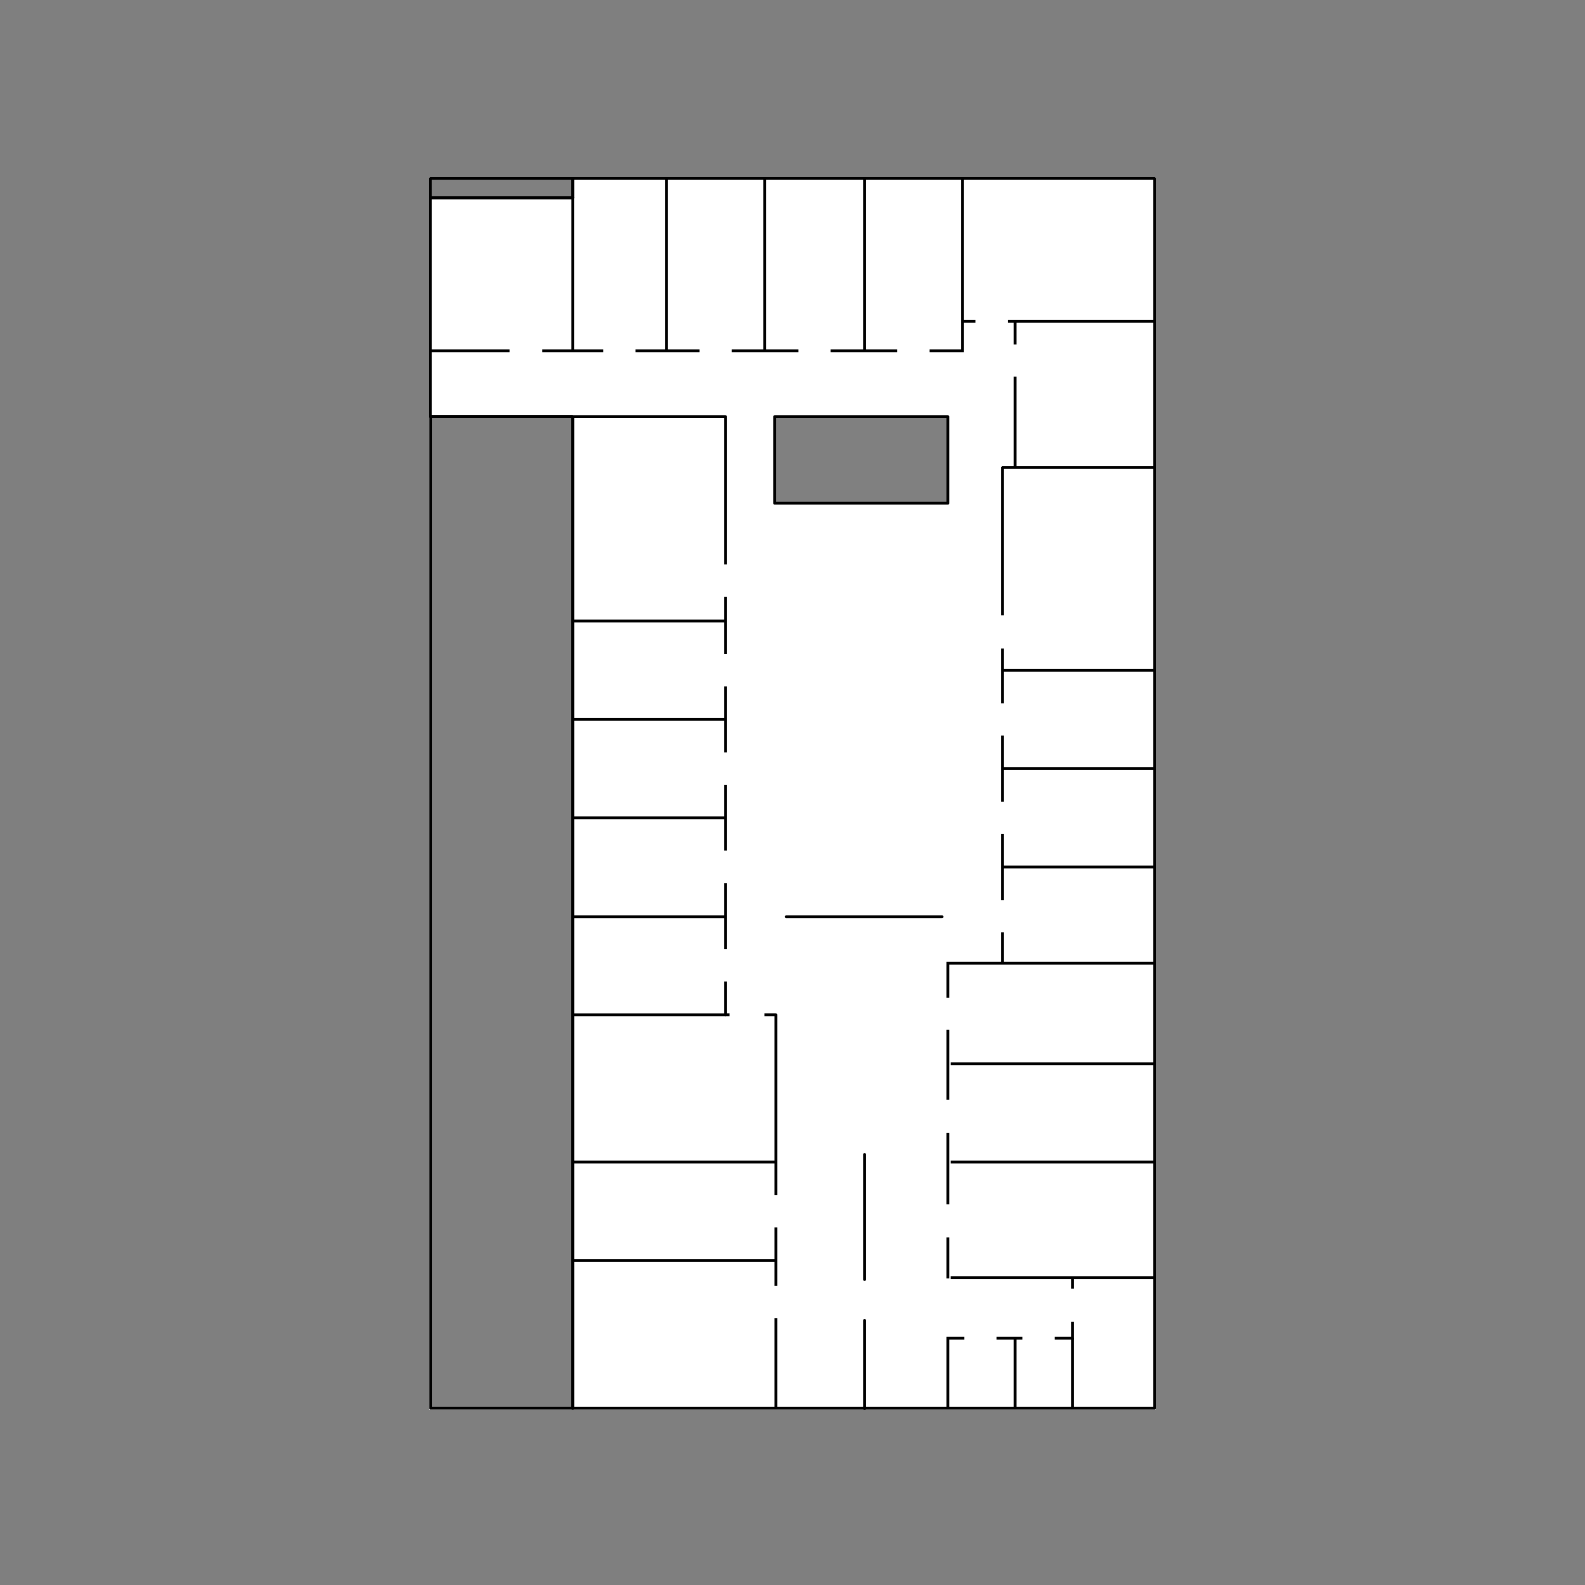
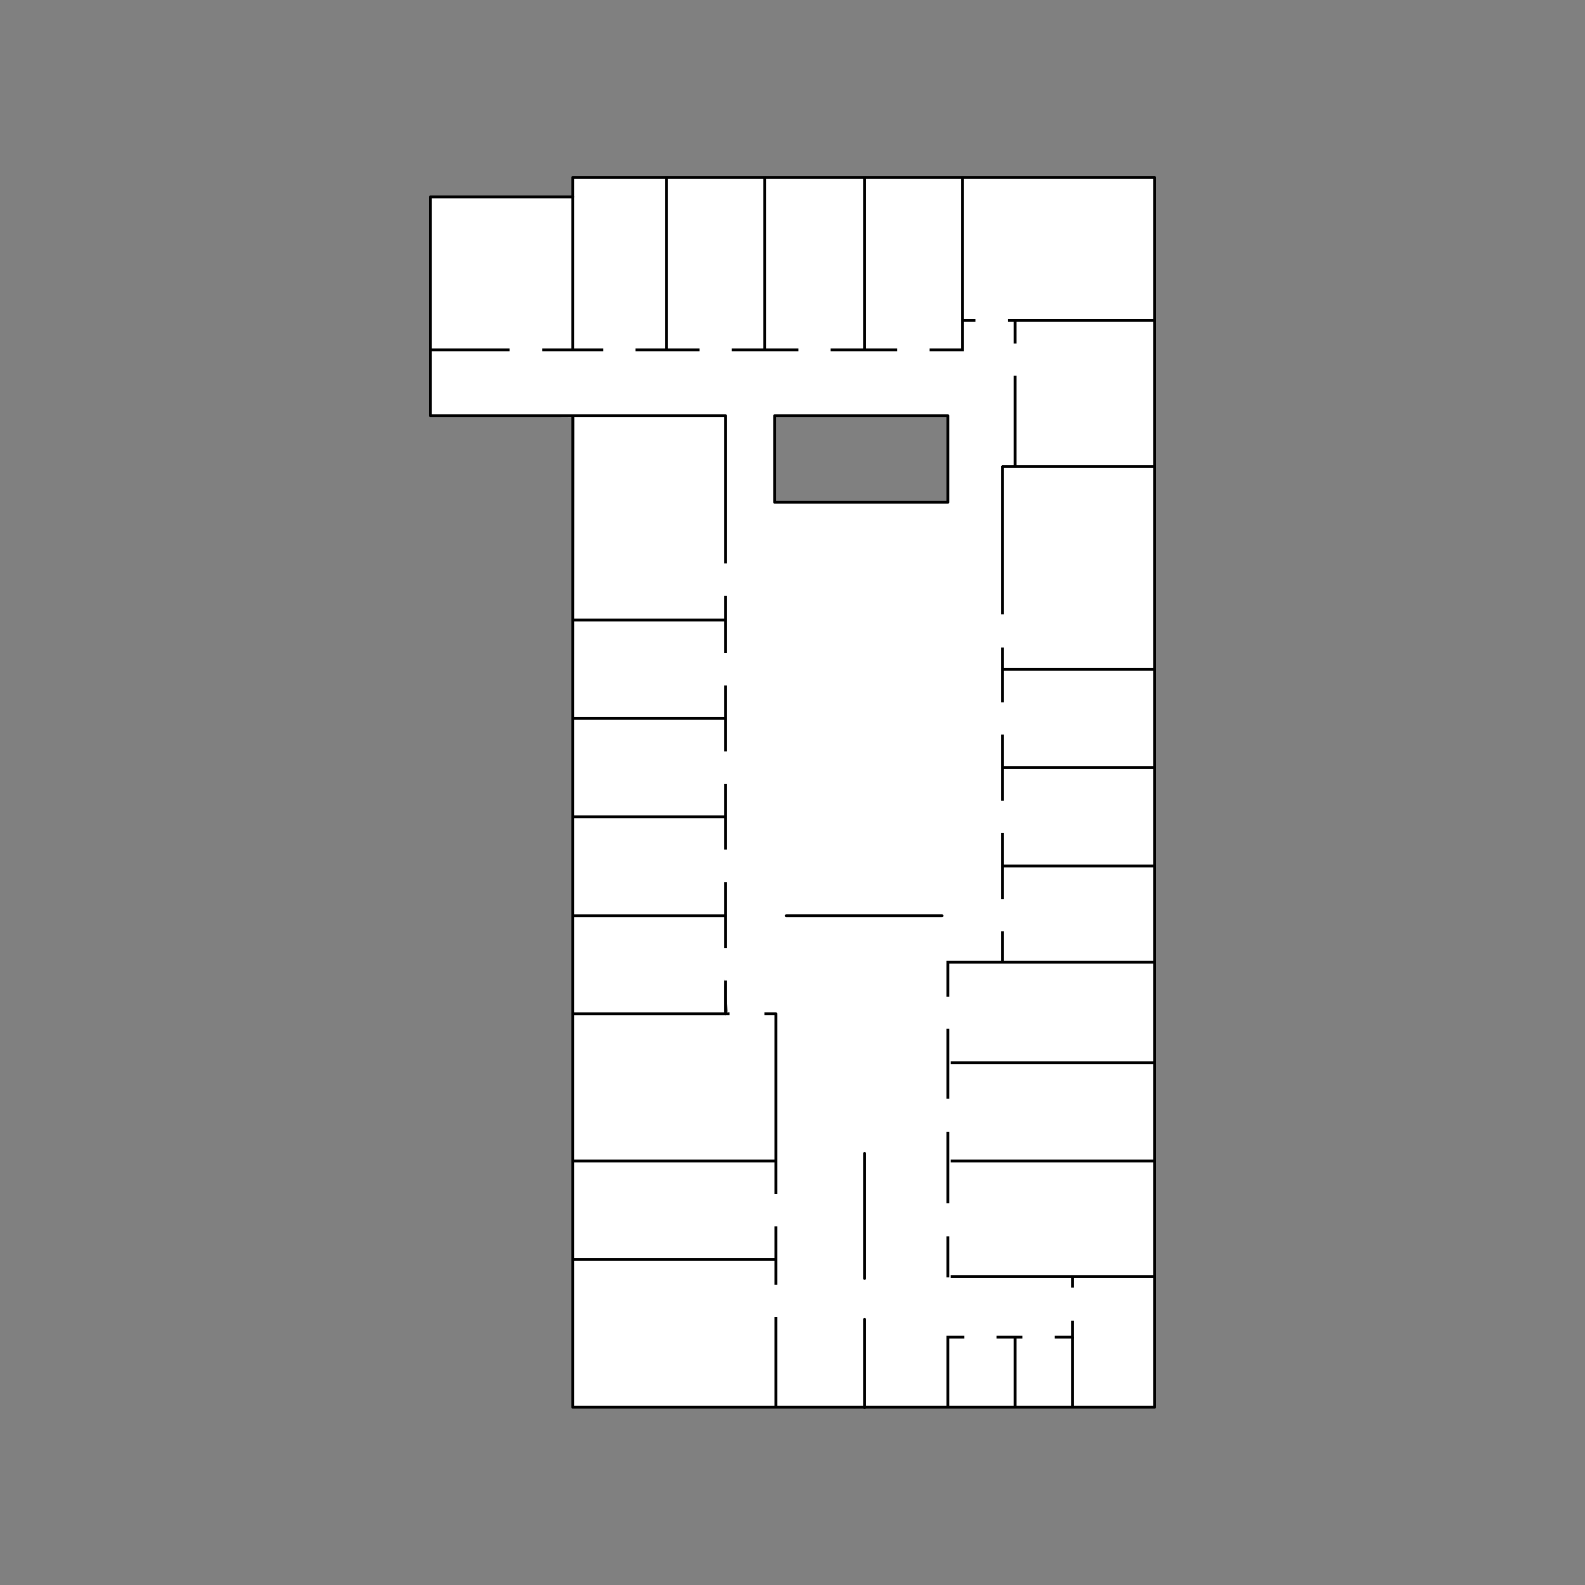
updated the layout map, to match sizes with sensor maps

diff --git a/README.md b/README.md
@@ -16,8 +16,8 @@ This table provides details for each set, followed by a thumbnail overview of al
 
 Name | Type | #sensor maps | #layout | location
 ---- | ---- | ------------ | ------- | --------
-E5 | office building | 14 | 1 | Halmstad University, Sweden
-F5 | office building | 14 | 1 | Halmstad University, Sweden
+E5 | office building | 14 | 1 | [Halmstad University](https://www.hh.se/download/18.38e7400514bc4e0933ad51d7/1497519545385/campus-map.pdf), Sweden
+F5 | office building | 14 | 1 | [Halmstad University](https://www.hh.se/download/18.38e7400514bc4e0933ad51d7/1497519545385/campus-map.pdf), Sweden
 HIH | apartment | 4| 1 | [Intelligent Home Environment](http://wagdem.ddi.hh.se/smartahemmet/), Halmstad, Sweden
 KPT4A | apartment | 4 | 1 | a residential apartment in Halmstad, Sweden
 
